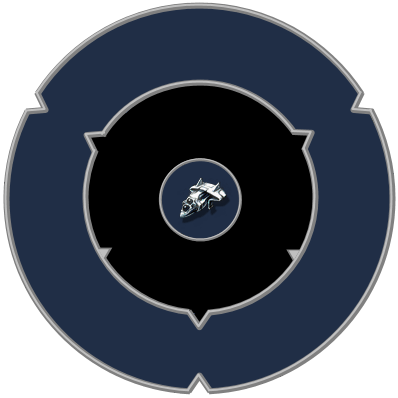
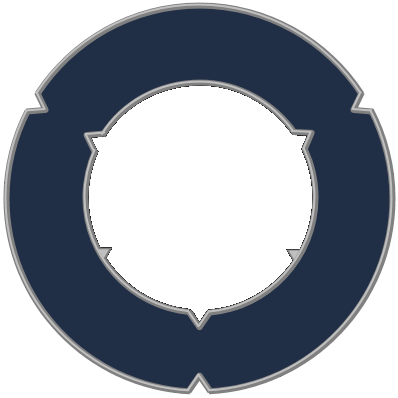
Kill details pages display a 256x256 background image if available. This checks img/ships/256_256/ for the image.

Changed region(s): [[0.2111, 0.2111, 0.7839, 0.8141]]

diff --git a/common/kill_detail.php b/common/kill_detail.php
@@ -953,6 +953,10 @@ class pKillDetail extends pageAssembly
 		$smarty->assignByRef('fitting_ammo_mid', $midammo);
 		$smarty->assign('showammo', config::get('fp_showammo'));
 
+		if(file_exists("img/ships/256_256/".$this->kill->getVictimShip()->getExternalID().".png"))
+			$smarty->assign('victimShipBigImage', $this->kill->getVictimShip()->getImage(256));
+		else $smarty->assign('noBigImage', true);
+
 		if(config::get('kd_verify'))
 		{
 			$this->verification = false;
